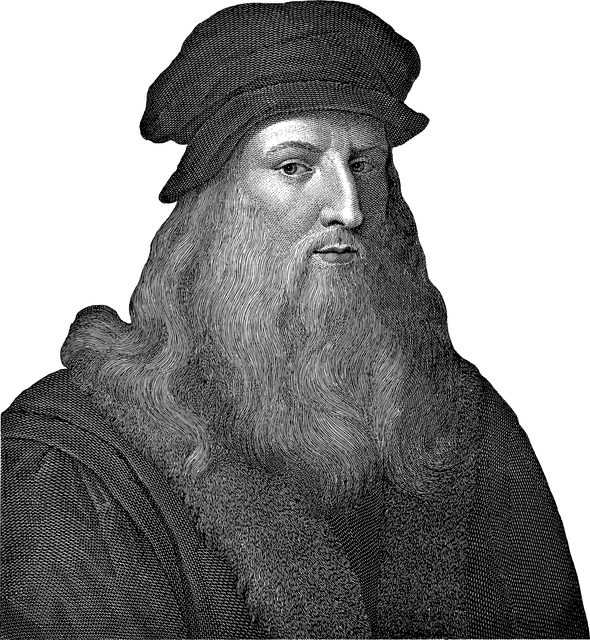
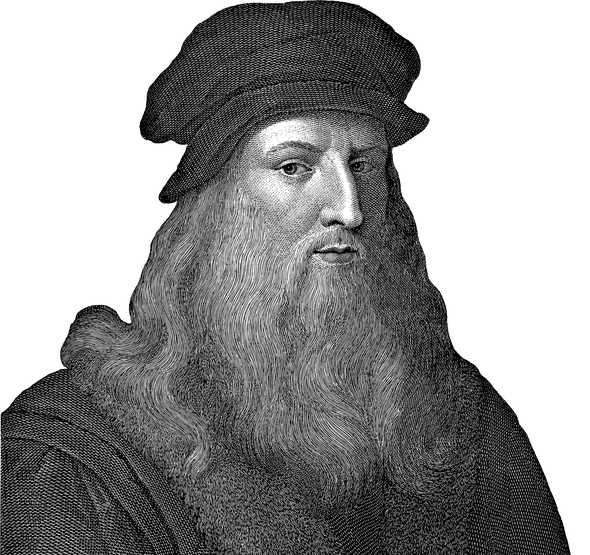
updated margins

diff --git a/_posts/2023-03-13-do-not-judge-people-who-leave-without-saying-goodbye.md b/_posts/2023-03-13-do-not-judge-people-who-leave-without-saying-goodbye.md
@@ -6,7 +6,7 @@ tags:
   - self-improvement
 ---
 
-<img width="200" alt="frog" src="/images/posts/do-not-judge-people-who-leave-without-saying-goodbye.jpg" style="float: left; margin-right: 10px;" />  There are times in our lives when someone we care about disappears without a word. It's a tough situation to be in and can leave us feeling all sorts of emotions. We may feel hurt, confused, and even angry that the person would leave without any explanation. However, before we jump to conclusions and start judging the person for their actions, it's important to consider that there could be many different reasons why they left without saying goodbye. Maybe they were dealing with something difficult and needed time to themselves, or perhaps they didn't know how to express their feelings to us. Whatever the reason may be, it's important to approach the situation with empathy and understanding rather than anger or resentment. Communication is key, so if you're feeling hurt or confused, try reaching out to the person and having an honest conversation about how you feel.
+<img width="200" alt="frog" src="/images/posts/do-not-judge-people-who-leave-without-saying-goodbye.jpg" style="float: left; margin-right: 20px;" />  There are times in our lives when someone we care about disappears without a word. It's a tough situation to be in and can leave us feeling all sorts of emotions. We may feel hurt, confused, and even angry that the person would leave without any explanation. However, before we jump to conclusions and start judging the person for their actions, it's important to consider that there could be many different reasons why they left without saying goodbye. Maybe they were dealing with something difficult and needed time to themselves, or perhaps they didn't know how to express their feelings to us. Whatever the reason may be, it's important to approach the situation with empathy and understanding rather than anger or resentment. Communication is key, so if you're feeling hurt or confused, try reaching out to the person and having an honest conversation about how you feel.
 
 Perhaps they don't like goodbyes or don't see the point in emphasizing something that can't be changed. Maybe they're going through personal issues that they don't feel comfortable sharing, or struggling with their mental health. Whatever the reason, it's essential to recognize that everyone has their own reasons for doing things, and we should try to understand and respect their decision.
 

diff --git a/_posts/2023-01-04-understanding-the-realities-of-growing-old.md b/_posts/2023-01-04-understanding-the-realities-of-growing-old.md
@@ -7,7 +7,7 @@ tags:
   - philosophy
 ---
 
-<img width="200" alt="watch" src="/images/posts/understanding-the-realities-of-growing-old.jpg" style="float: left; margin-right: 10px;" /> Have you ever stopped to think about the fact that we are all getting older as we journey through life? It's kind of crazy to think about, but at some point, we all begin to realize that we're not as young as we used to be. For some people, this realization comes on gradually over time, while for others, it can be a sudden wake-up call. But no matter how it happens, accepting the fact that we are aging is a natural and inevitable part of the human experience. While it can be scary to think about getting older, there are also many wonderful things that come with age, like wisdom, experience, and the ability to appreciate life in a deeper way. So let's embrace the aging process and all the amazing things that come with it!
+<img width="200" alt="watch" src="/images/posts/understanding-the-realities-of-growing-old.jpg" style="float: left; margin-right: 20px;" /> Have you ever stopped to think about the fact that we are all getting older as we journey through life? It's kind of crazy to think about, but at some point, we all begin to realize that we're not as young as we used to be. For some people, this realization comes on gradually over time, while for others, it can be a sudden wake-up call. But no matter how it happens, accepting the fact that we are aging is a natural and inevitable part of the human experience. While it can be scary to think about getting older, there are also many wonderful things that come with age, like wisdom, experience, and the ability to appreciate life in a deeper way. So let's embrace the aging process and all the amazing things that come with it!
 
 One of the most significant indications of aging is the physical changes that occur in our bodies. As we age, our skin loses elasticity, wrinkles and age spots begin to appear, and our hair turns gray. These physical changes can be difficult to accept, especially for those who have always placed a high value on their appearance. However, it is important to remember that these changes are a natural part of the aging process and should be embraced rather than fought against.
 

diff --git a/_posts/2023-03-20-the-donkey-is-still-a-donkey.md b/_posts/2023-03-20-the-donkey-is-still-a-donkey.md
@@ -7,7 +7,7 @@ tags:
   - career
 ---
 
-<img width="200" alt="donkey" src="/images/posts/the-donkey-is-still-a-donkey.jpg" style="float: left; margin-right: 10px;" />  The phrase "They dressed the donkey with a golden saddle, the donkey is still a donkey" is a powerful metaphor that speaks to the idea that external appearances do not change the inherent nature of a person. This idea is especially important to consider when thinking about the value of humanity and how it relates to positions of power and privilege. Just because someone has a fancy title or lots of money doesn't necessarily mean they are a good person or that they are any more valuable than someone who doesn't have those things. It's important to look beyond external appearances and consider a person's true character and worth as an individual.
+<img width="200" alt="donkey" src="/images/posts/the-donkey-is-still-a-donkey.jpg" style="float: left; margin-right: 20px;" />  The phrase "They dressed the donkey with a golden saddle, the donkey is still a donkey" is a powerful metaphor that speaks to the idea that external appearances do not change the inherent nature of a person. This idea is especially important to consider when thinking about the value of humanity and how it relates to positions of power and privilege. Just because someone has a fancy title or lots of money doesn't necessarily mean they are a good person or that they are any more valuable than someone who doesn't have those things. It's important to look beyond external appearances and consider a person's true character and worth as an individual.
 
 It's all too common for individuals in positions of authority to believe that their status or wealth automatically imbues them with greater worth than those around them. They may dress themselves up in fancy clothes, surround themselves with luxury, and demand respect and admiration from others. However, despite all of this, they may still lack the fundamental values of empathy, compassion, and respect for others that define our humanity.
 

diff --git a/_posts/2023-02-07-leonardo-da-vinci-the-man-beyond-the-mona-lisa.md b/_posts/2023-02-07-leonardo-da-vinci-the-man-beyond-the-mona-lisa.md
@@ -7,7 +7,7 @@ tags:
   - biography
 ---
 
-<img width="180" alt="leonardo da vinci" src="/images/posts/leonardo-da-vinci-the-man-beyond-the-mona-lisa.png" style="float: left; margin-right: 10px;" />  When you hear the name Leonardo da Vinci, the first thing that may come to mind is his masterpiece, the Mona Lisa. But, did you know that da Vinci was more than just an artist? He was a true Renaissance man, with a vast array of talents and interests that spanned the fields of science, engineering, architecture, and music. In this article, we'll take a closer look at the life of this extraordinary man, exploring his amazing creations and ideas, and asking the question: how did Leonardo da Vinci change the world?
+<img width="180" alt="leonardo da vinci" src="/images/posts/leonardo-da-vinci-the-man-beyond-the-mona-lisa.png" style="float: left; margin-right: 20px;" />  When you hear the name Leonardo da Vinci, the first thing that may come to mind is his masterpiece, the Mona Lisa. But, did you know that da Vinci was more than just an artist? He was a true Renaissance man, with a vast array of talents and interests that spanned the fields of science, engineering, architecture, and music. In this article, we'll take a closer look at the life of this extraordinary man, exploring his amazing creations and ideas, and asking the question: how did Leonardo da Vinci change the world?
 
 Born in the year 1452 in a small village called Vinci on the outskirts of Florence, Italy, Leonardo was the illegitimate child of a wealthy Florentine notary and a 14-year-old peasant girl named Katarina. He did not receive a formal school education, but the basics of reading, writing, and mathematics were taught to him by tutors. Despite struggling to read as a child and often getting distracted, Leonardo's curious mind and power of observation were encouraged by his grandfather and uncle Francesco, who sent the young boy off into the fields and vineyards to study the plants, animals, and insects around him.
 

diff --git a/_posts/2023-02-03-why-do-computers-use-one-and-zeros.md b/_posts/2023-02-03-why-do-computers-use-one-and-zeros.md
@@ -7,7 +7,7 @@ tags:
   - software
 ---
 
-<img width="220" alt="binary system" src="/images/posts/why-do-computers-use-one-and-zeros.jpg" style="float: left; margin-right: 10px;" /> Binary is a number system that uses only two digits to represent a quantitative value, 0 and 1. Computers rely on binary because it is based on micro transistors, which are tiny electronic switches that can be on or off with a weak electrical charge. These switches are arranged in logical circuits to perform calculations, store data, and control operations in a computer.
+<img width="220" alt="binary system" src="/images/posts/why-do-computers-use-one-and-zeros.jpg" style="float: left; margin-right: 20px;" /> Binary is a number system that uses only two digits to represent a quantitative value, 0 and 1. Computers rely on binary because it is based on micro transistors, which are tiny electronic switches that can be on or off with a weak electrical charge. These switches are arranged in logical circuits to perform calculations, store data, and control operations in a computer.
 
 Binary is more efficient than tally marks and has an exponential increase in the amount of things it can represent compared to base 10, which uses ten digits. In base 10, each digit represents a power of 10, and as the value of the number increases, the number of digits required to represent it also increases. However, in binary, each digit represents a power of 2, so the number of digits required to represent a value grows exponentially.
 

diff --git a/_posts/2023-02-02-why-we-need-operating-systems.md b/_posts/2023-02-02-why-we-need-operating-systems.md
@@ -7,7 +7,7 @@ tags:
   - software
 ---
 
-<img width="150" alt="operating system" src="/images/posts/why-we-need-operating-systems.png" style="float: left; margin-right: 10px;" /> In the early days of computing, computers were massive, expensive machines that could only run one program at a time. Programming was done on punch cards, and the operator would manually feed the programming into the computer. The computer would then run the program, output some results, and wait for the next program to be fed in. This process was tedious, time-consuming, and not efficient.
+<img width="150" alt="operating system" src="/images/posts/why-we-need-operating-systems.png" style="float: left; margin-right: 20px;" /> In the early days of computing, computers were massive, expensive machines that could only run one program at a time. Programming was done on punch cards, and the operator would manually feed the programming into the computer. The computer would then run the program, output some results, and wait for the next program to be fed in. This process was tedious, time-consuming, and not efficient.
 
 To improve this process, operating systems were created to help computers operate themselves. Operating systems are programs that have special privileges on the hardware and can run and manage other programs. They are typically the first programs to start when a computer is turned on. The first OSs were created in the 1950s to handle the manual tasks of loading programs by hand.
 

diff --git a/_posts/2023-03-24-gordon-moore-has-passed-away-at-the-age-of-94.md b/_posts/2023-03-24-gordon-moore-has-passed-away-at-the-age-of-94.md
@@ -7,7 +7,7 @@ tags:
   - career
 ---
 
-<img width="180" alt="gordon moore" src="/images/posts/gordon-moore-has-passed-away-at-the-age-of-94.png" style="float: left; margin-right: 10px;" />  In the world of technology, the name Gordon E. Moore is synonymous with innovation, vision, and a groundbreaking idea that would go on to transform the computer industry forever. As the co-founder of Intel Corp., Moore was a central figure in the history of electronics and his contributions to the design and manufacture of semiconductor chips helped launch Silicon Valley and set the stage for the computer to become the ubiquitous , defining tool of modern life.
+<img width="180" alt="gordon moore" src="/images/posts/gordon-moore-has-passed-away-at-the-age-of-94.png" style="float: left; margin-right: 20px;" />  In the world of technology, the name Gordon E. Moore is synonymous with innovation, vision, and a groundbreaking idea that would go on to transform the computer industry forever. As the co-founder of Intel Corp., Moore was a central figure in the history of electronics and his contributions to the design and manufacture of semiconductor chips helped launch Silicon Valley and set the stage for the computer to become the ubiquitous , defining tool of modern life.
 
 Moore passed away on March 24, 2023, at his home in Hawaii, at the age of 94, leaving behind an incredible legacy that has touched the lives of millions, if not billions, of people across the world.
 

diff --git a/_posts/2023-02-04-how-do-computers-make-decisions.md b/_posts/2023-02-04-how-do-computers-make-decisions.md
@@ -7,7 +7,7 @@ tags:
   - software
 ---
 
-<img width="150" alt="logic gates" src="/images/posts/how-do-computers-make-decisions.png" style="float: left; margin-right: 10px;" /> How computers make decisions with logic gates, which is the fundamental building block for how computers operate? Computers make decisions using logic gates, which are the fundamental building blocks of all digital circuits. A logic gate is a basic electronic component that takes one or more binary inputs and produces a binary output based on a logical operation. The basic logic gates are AND, OR and NOT gates. These gates can be combined to create more complex circuits that can perform more advanced logical operations.
+<img width="150" alt="logic gates" src="/images/posts/how-do-computers-make-decisions.png" style="float: left; margin-right: 20px;" /> How computers make decisions with logic gates, which is the fundamental building block for how computers operate? Computers make decisions using logic gates, which are the fundamental building blocks of all digital circuits. A logic gate is a basic electronic component that takes one or more binary inputs and produces a binary output based on a logical operation. The basic logic gates are AND, OR and NOT gates. These gates can be combined to create more complex circuits that can perform more advanced logical operations.
 
 What are Logic Gates?
 ---
